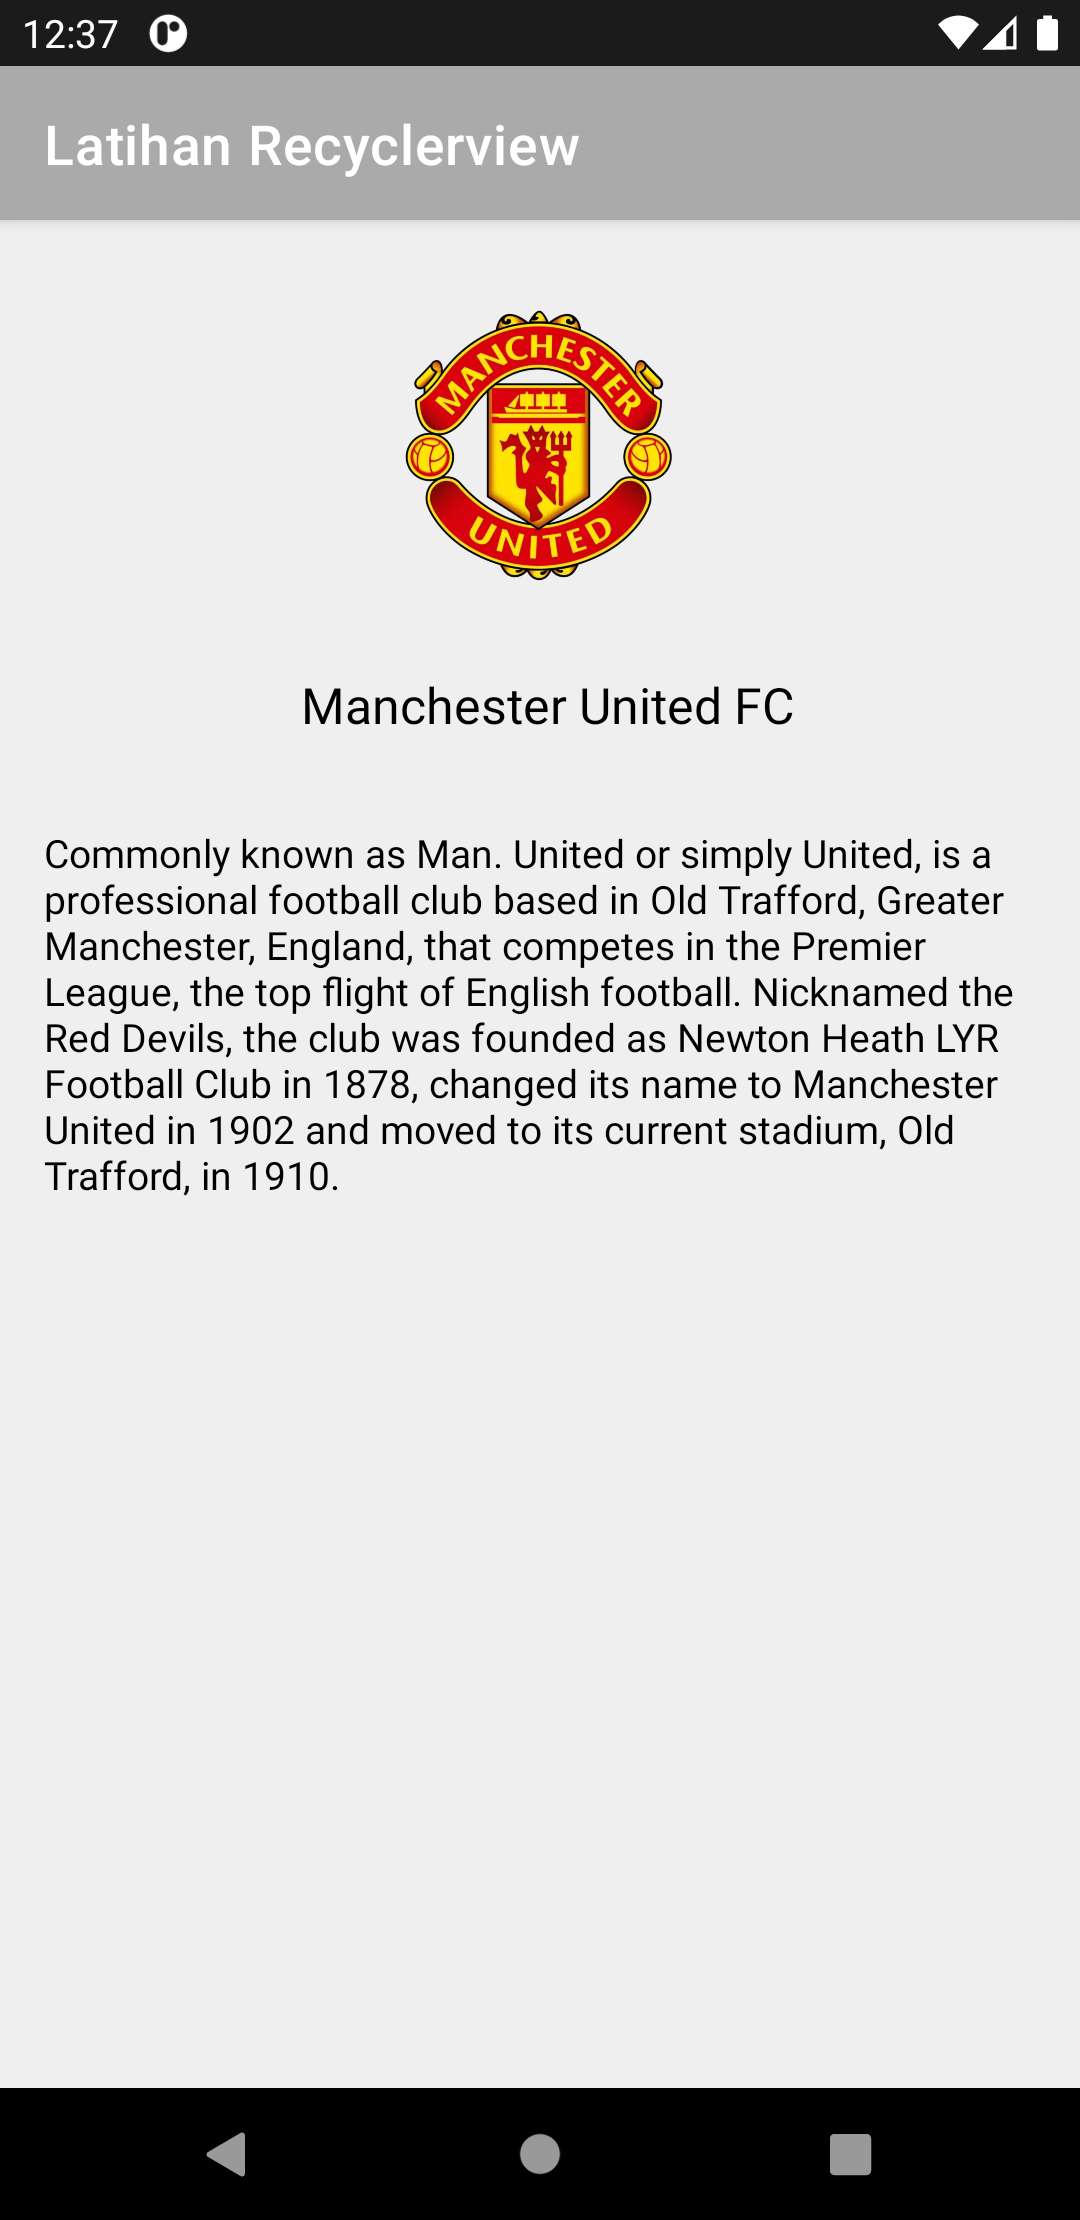
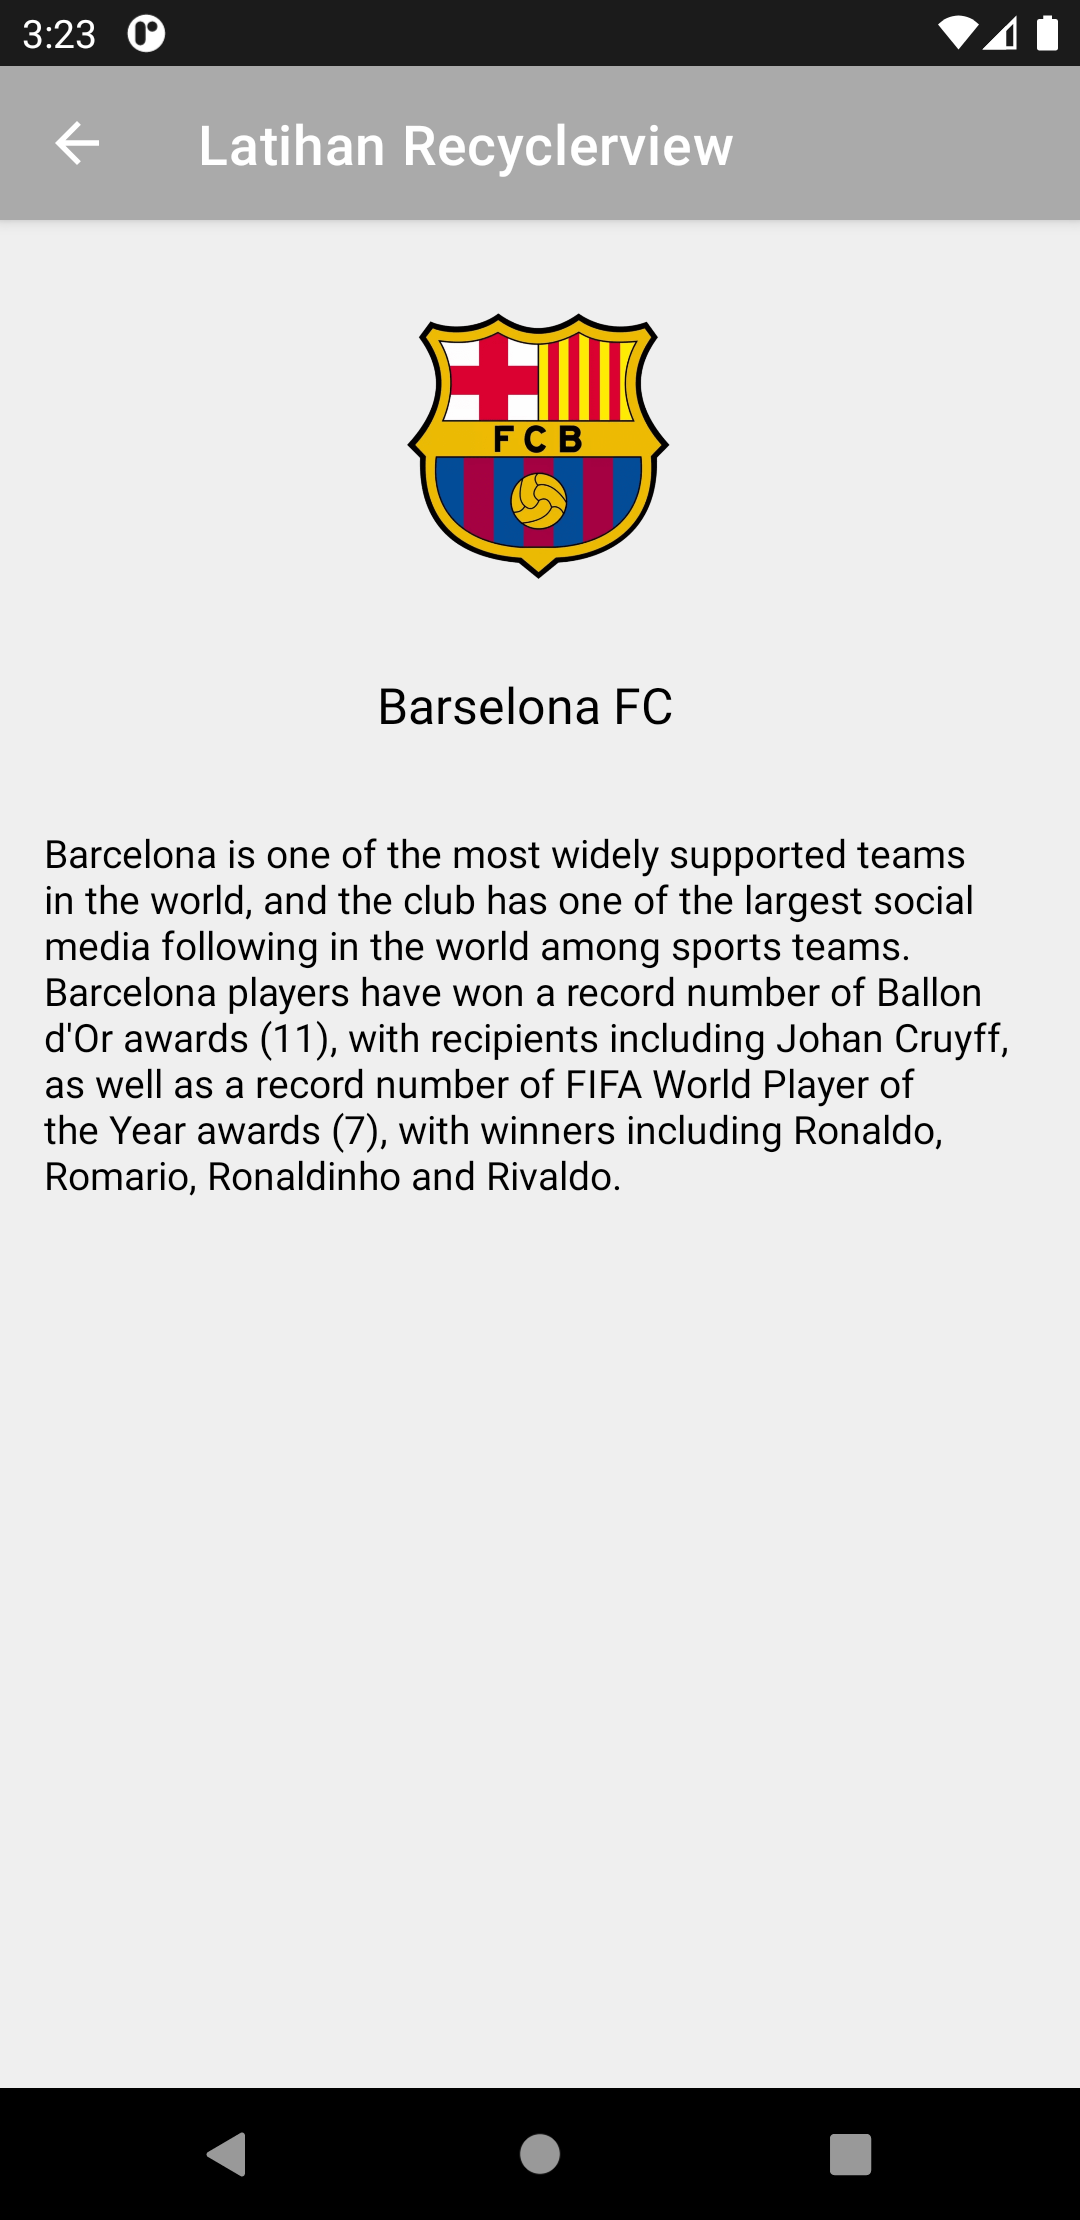
add Back button in the title bar

diff --git a/app/src/main/java/com/abuunity/latihanfragmant/DescriptionActivity.java b/app/src/main/java/com/abuunity/latihanfragmant/DescriptionActivity.java
@@ -14,6 +14,7 @@ public class DescriptionActivity extends AppCompatActivity {
     protected void onCreate(Bundle savedInstanceState) {
         super.onCreate(savedInstanceState);
         setContentView(R.layout.activity_description);
+        getSupportActionBar().setDisplayHomeAsUpEnabled(true);
 
         Team team = getIntent().getParcelableExtra("TEAMS");
         name = findViewById(R.id.textName);
